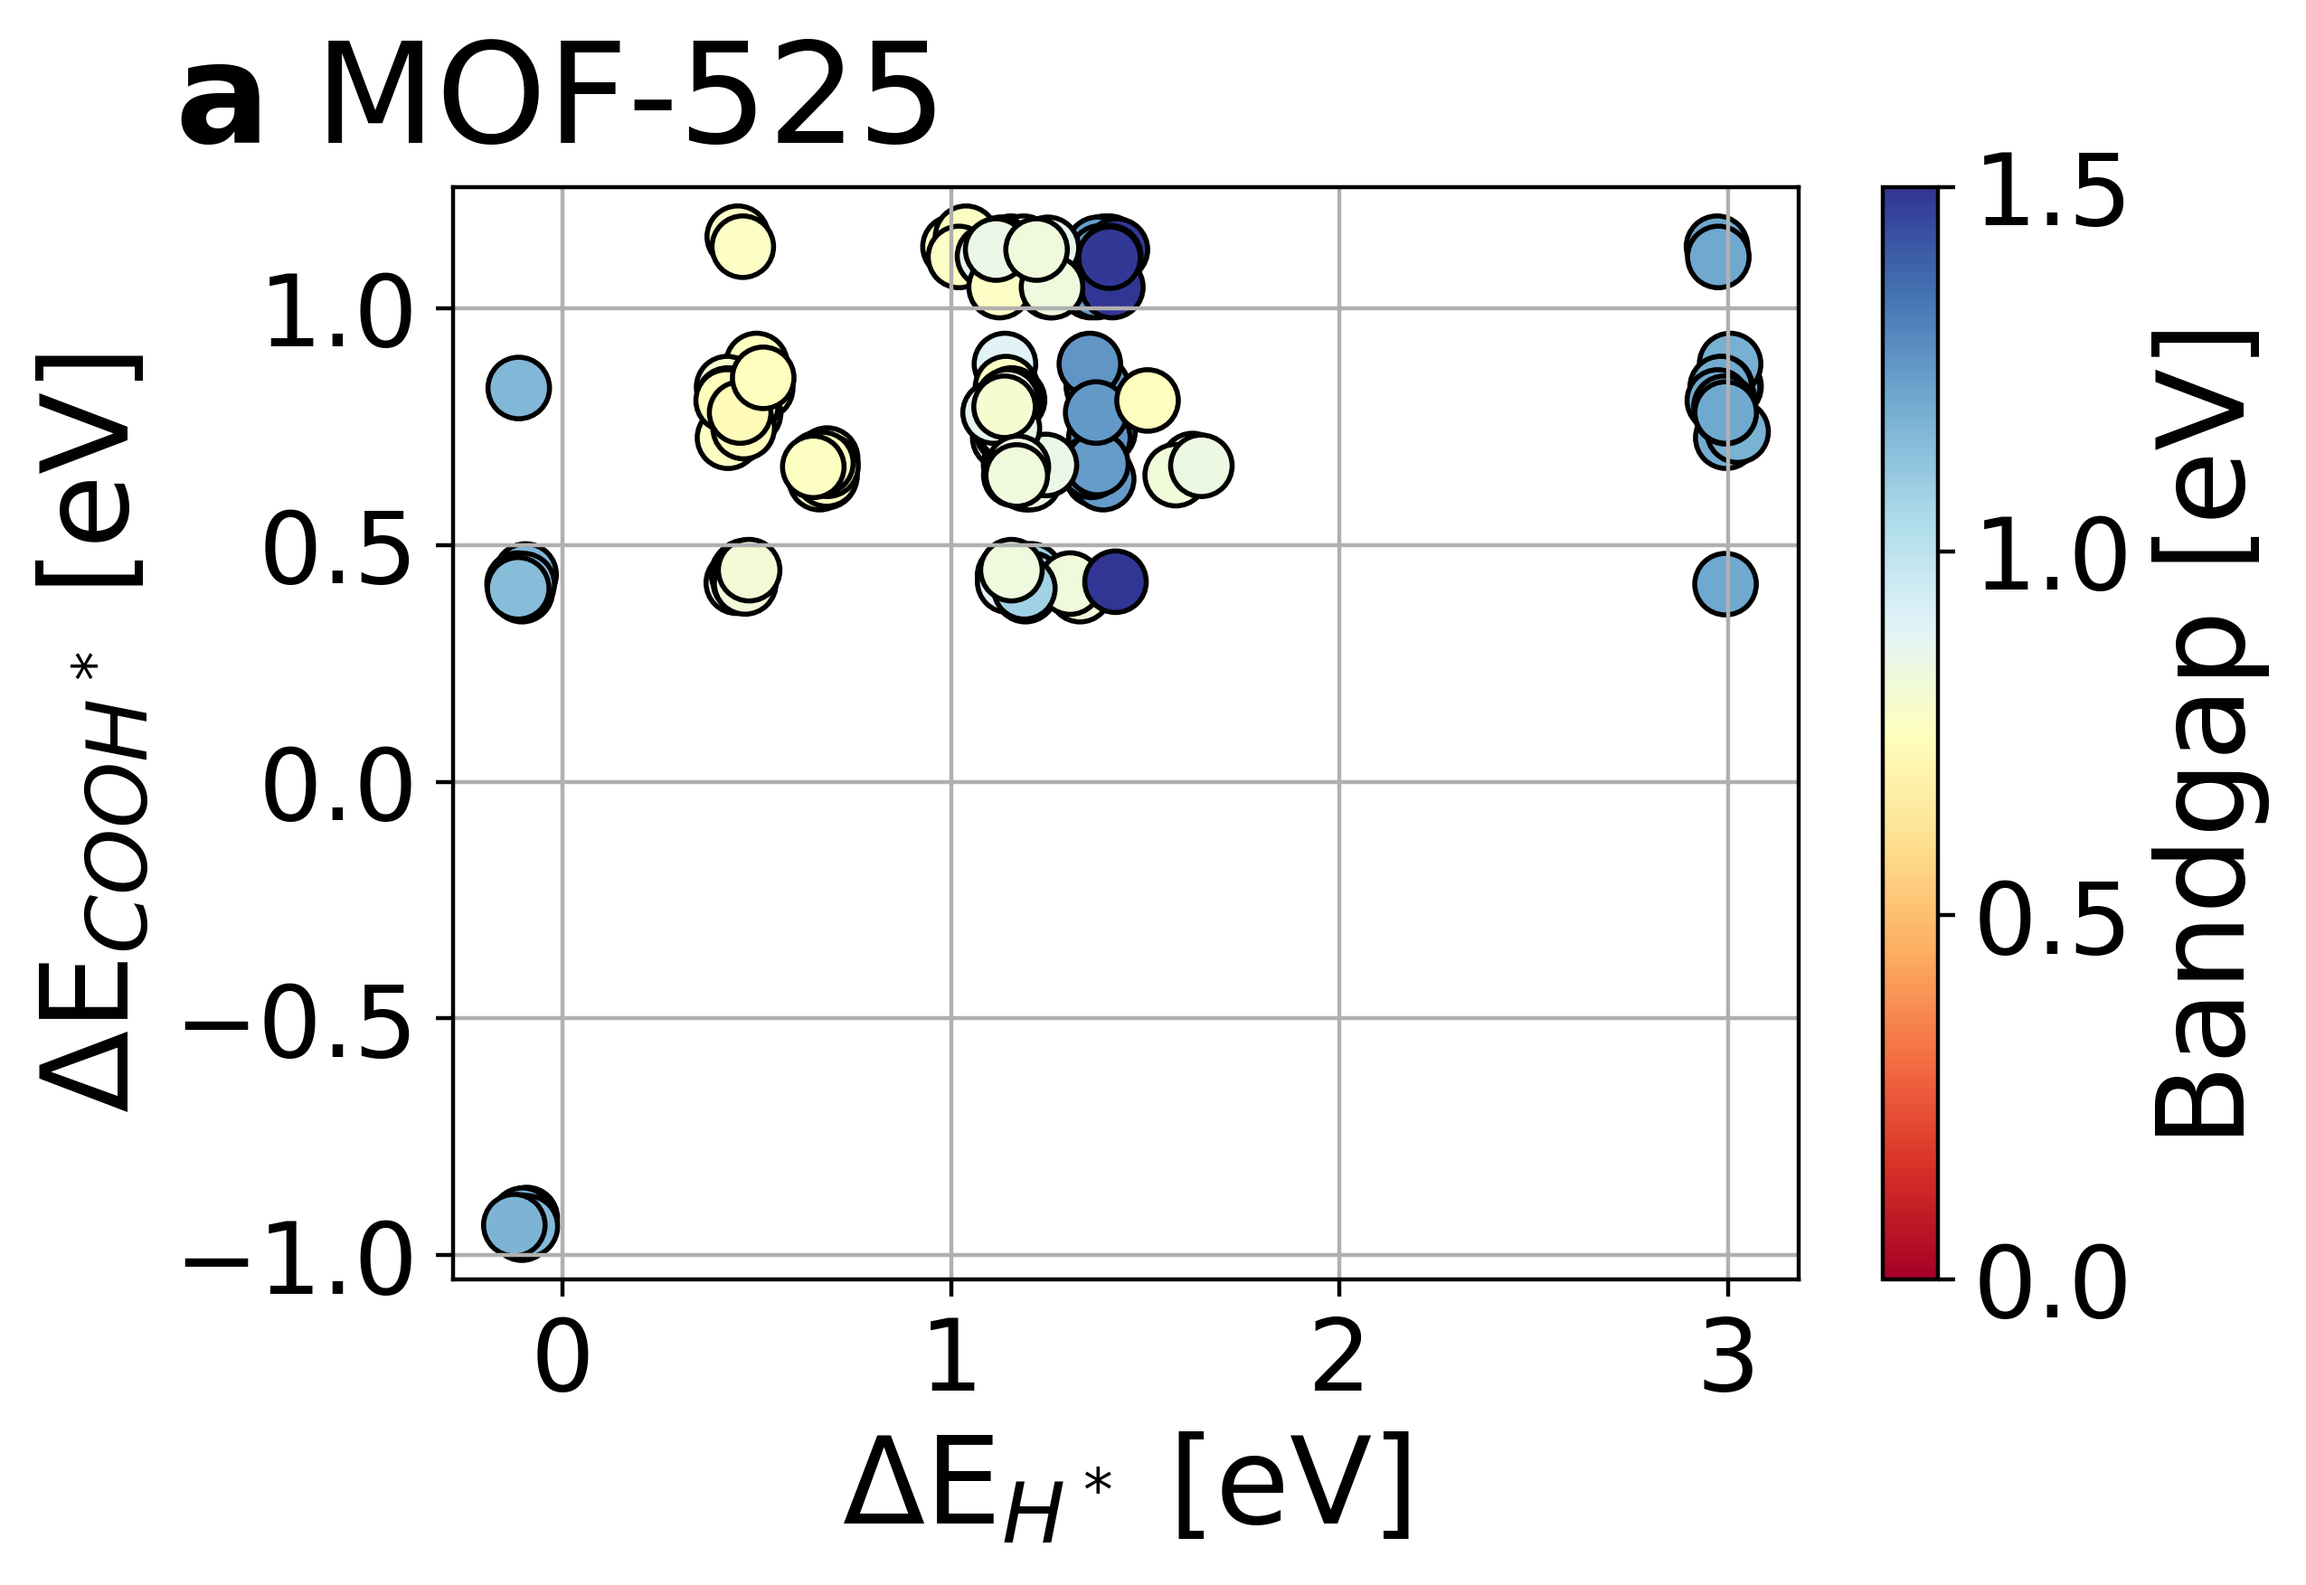
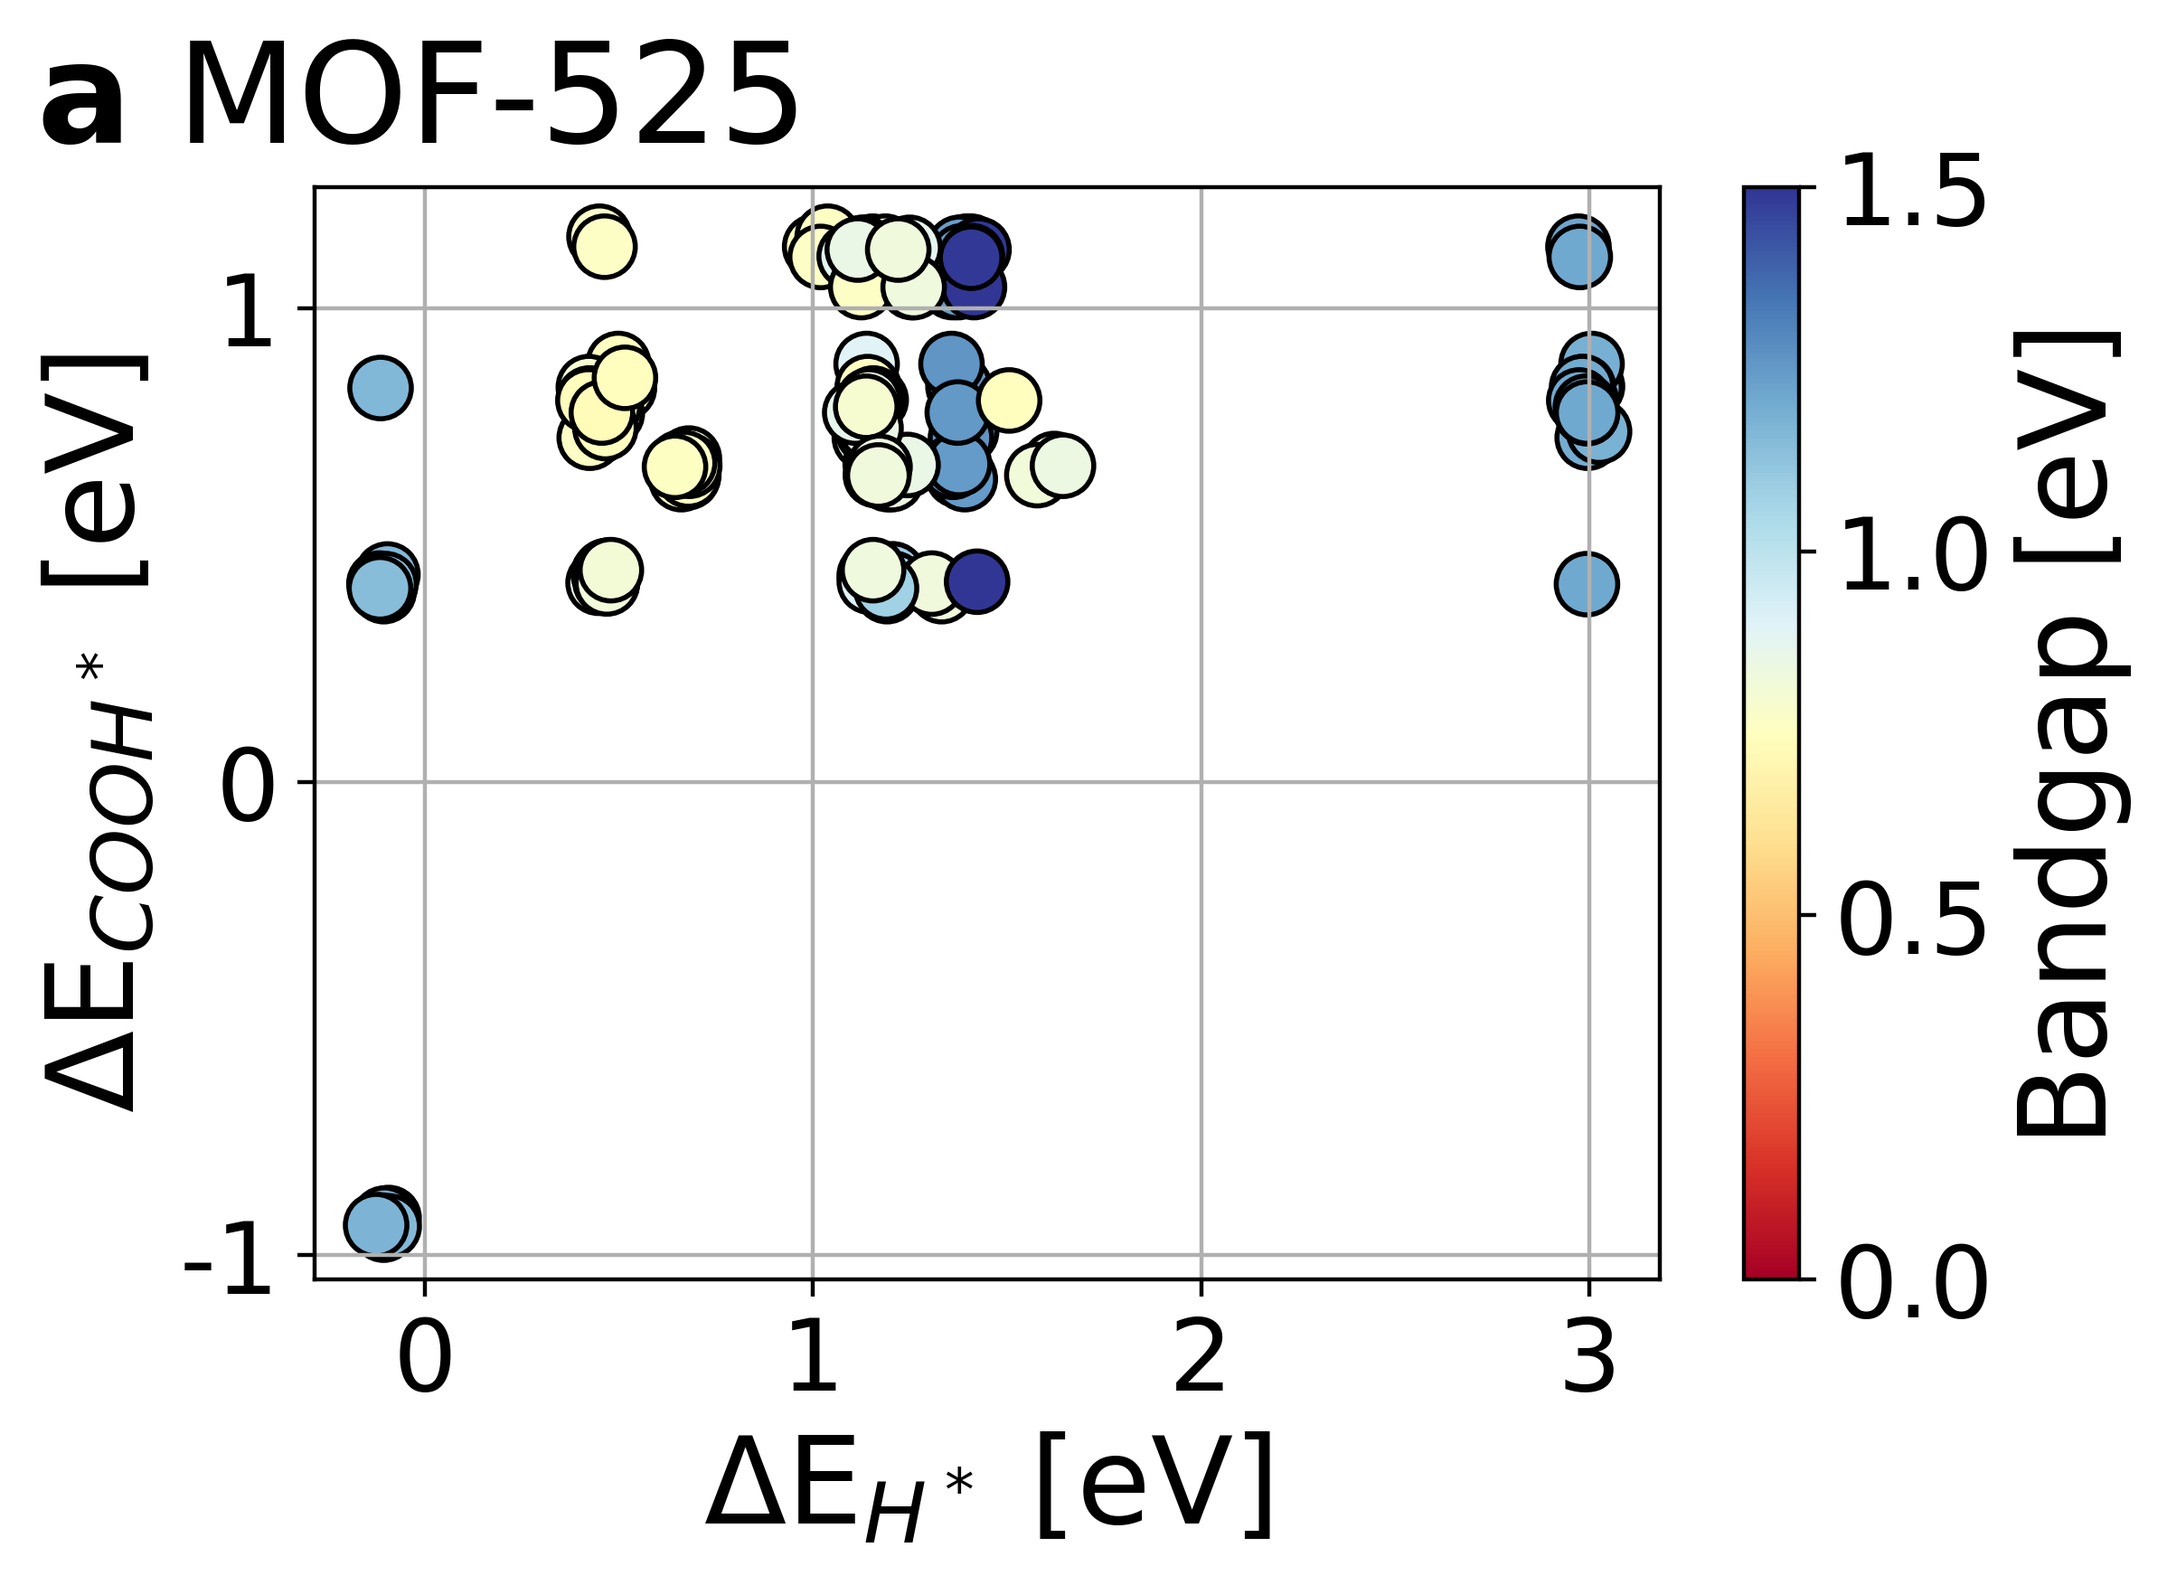
Add files via upload

diff --git a/Plot_MOF525.py b/Plot_MOF525.py
@@ -229,7 +229,10 @@ for Intermediates in zip(['H','OH'],['COOH','O']):
 
         
         plt.xticks(fontsize=size2)
-        plt.yticks(fontsize=size2)
+        if Intermediates[0]=='H':
+            plt.yticks([-1,0,1],['-1','0','1'],fontsize=size2)
+        else:
+            plt.yticks(fontsize=size2)
         plt.xlabel('$\Delta$E$_{%s^*}$ [eV]' % Intermediates[0],fontsize=size1-4)
         plt.ylabel('$\Delta$E$_{%s^*}$ [eV]' % Intermediates[1],fontsize=size1-4)
         
@@ -250,7 +253,10 @@ for Intermediates in zip(['H','OH'],['COOH','O']):
         cbar.set_label('dist [Ang]', fontsize=size1)
         
         plt.xticks(fontsize=size2)
-        plt.yticks(fontsize=size2)
+        if Intermediates[0]=='H':
+            plt.yticks([-1,0,1],['-1','0','1'],fontsize=size2)
+        else:
+            plt.yticks(fontsize=size2)
         plt.xlabel('$\Delta$E$_{%s^*}$ [eV]' % Intermediates[0],fontsize=size1)
         plt.ylabel('$\Delta$E$_{%s^*}$ [eV]' % Intermediates[1],fontsize=size1)
         plt.savefig(Iron+'Fe_with_'+Intermediates[0]+'vs'+Intermediates[1]+'_dist.png', dpi=400, bbox_inches='tight')

diff --git a/Plot_Fe-MOF525.py b/Plot_Fe-MOF525.py
@@ -374,6 +374,6 @@ plt.ylim([0,0.8])
 plt.xlim([-1.5,2.0])
 #plt.axis([-1, 1, -1, 10])
 #plt.savefig(Iron+'Fe_with_'+Intermediates+'_SPIN.png', dpi=400, bbox_inches='tight')
-#plt.savefig('3Fe_with_SPIN_potential_map.png', dpi=400, bbox_inches='tight')
+plt.savefig('3Fe_with_SPIN_potential_map.png', dpi=400, bbox_inches='tight')
 plt.show()
      
